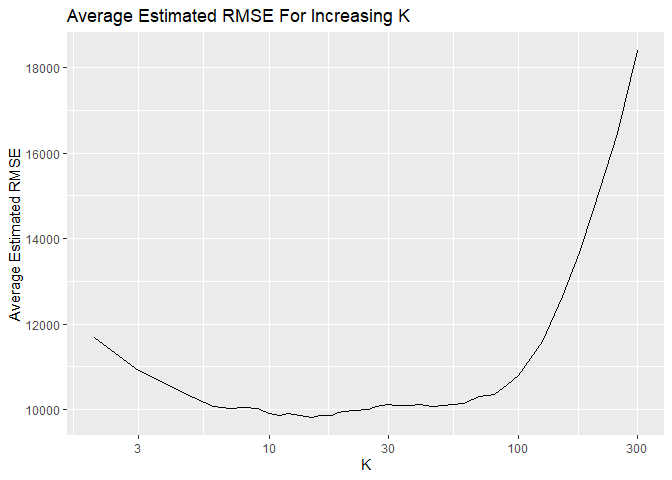
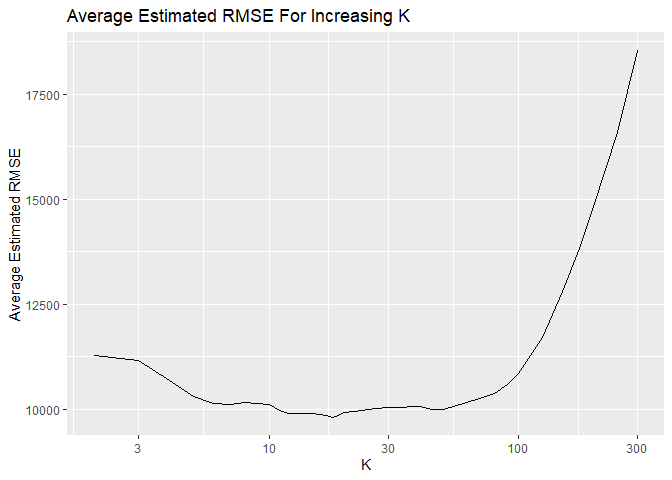
More clean up

diff --git a/Eco395m_HW1.md b/Eco395m_HW1.md
@@ -48,16 +48,10 @@ the K with the lowest average RMSE.
 
 ![](Eco395m_HW1_files/figure-markdown_strict/unnamed-chunk-8-1.png)
 
-    ## As can be seen above, the K with the lowest average RMSE in this model is 15 . As this is the most optimal RMSE, we will then use it to model price given mileage.
+    ## As can be seen above, the K with the lowest average RMSE in this model is 18 . As this is the most optimal RMSE, we will then use it to model price given mileage.
 
 At this value of K, the model predicts the following prices of cars with
 a 350 trim given their mileage:
-
-    ## Warning: Using `size` aesthetic for lines was deprecated in ggplot2 3.4.0.
-    ## ℹ Please use `linewidth` instead.
-    ## This warning is displayed once every 8 hours.
-    ## Call `lifecycle::last_lifecycle_warnings()` to see where this warning was
-    ## generated.
 
 ![](Eco395m_HW1_files/figure-markdown_strict/unnamed-chunk-11-1.png)
 
@@ -67,9 +61,15 @@ We can repeat this process for the AMG trim.
 
 ![](Eco395m_HW1_files/figure-markdown_strict/unnamed-chunk-13-1.png)
 
-    ## In this case, the K with the lowest average RMSE in this model is 61 . We will then use it to model price given mileage for cars with an AMG trim.
+    ## In this case, the K with the lowest average RMSE in this model is 60 . We will then use it to model price given mileage for cars with an AMG trim.
 
 The estimated price given mileage at that K is:
+
+    ## Warning: Using `size` aesthetic for lines was deprecated in ggplot2 3.4.0.
+    ## ℹ Please use `linewidth` instead.
+    ## This warning is displayed once every 8 hours.
+    ## Call `lifecycle::last_lifecycle_warnings()` to see where this warning was
+    ## generated.
 
 ![](Eco395m_HW1_files/figure-markdown_strict/unnamed-chunk-16-1.png)
 
